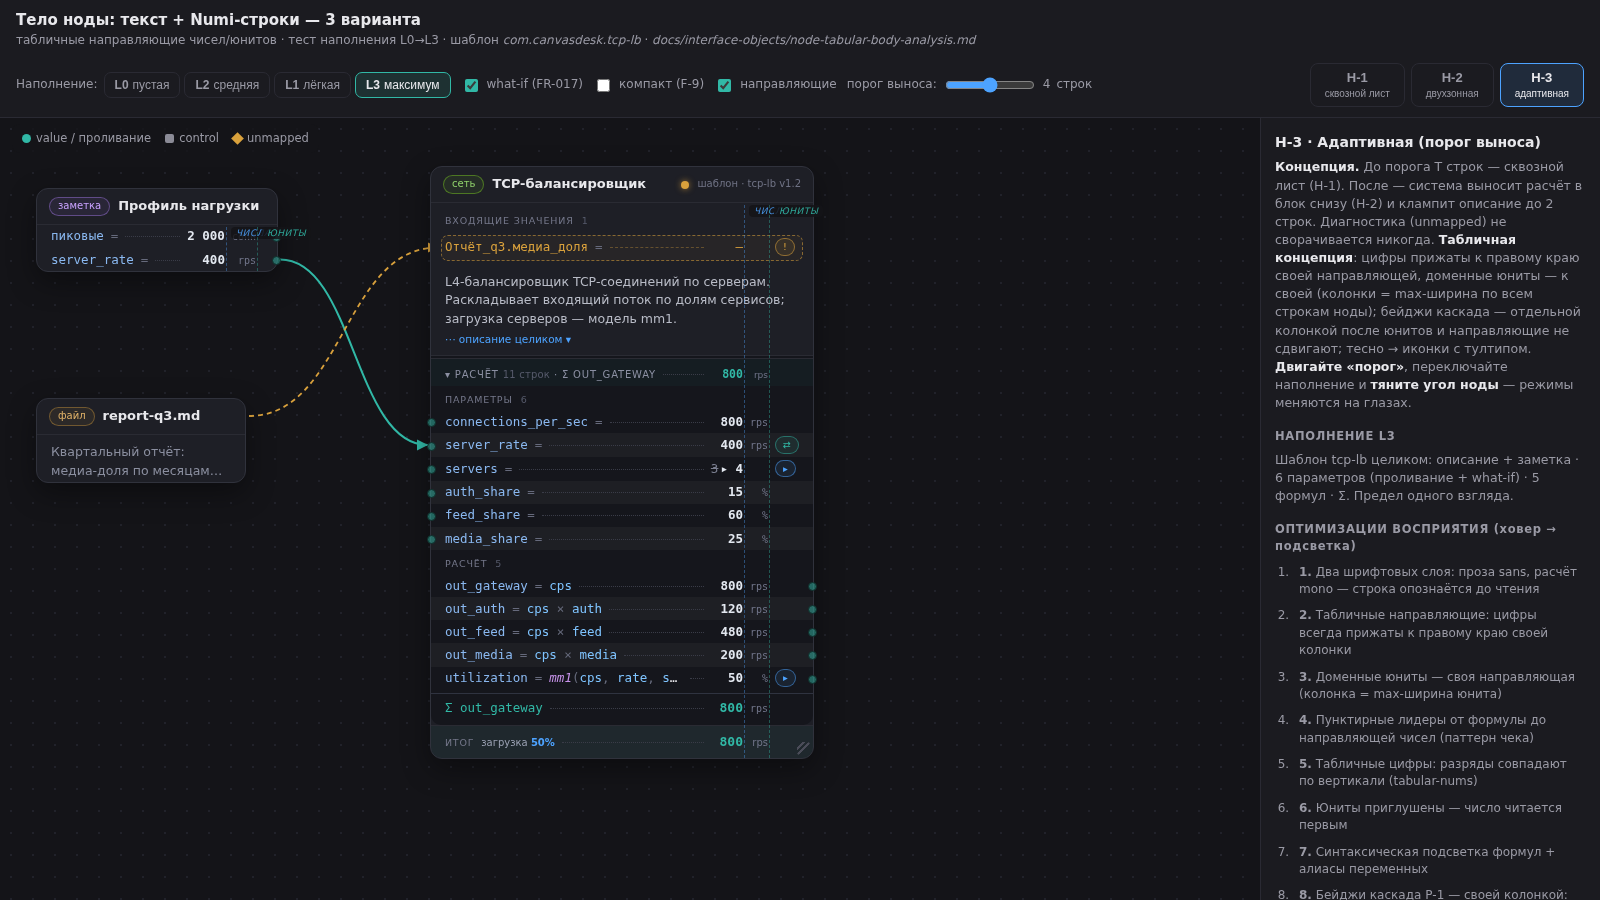
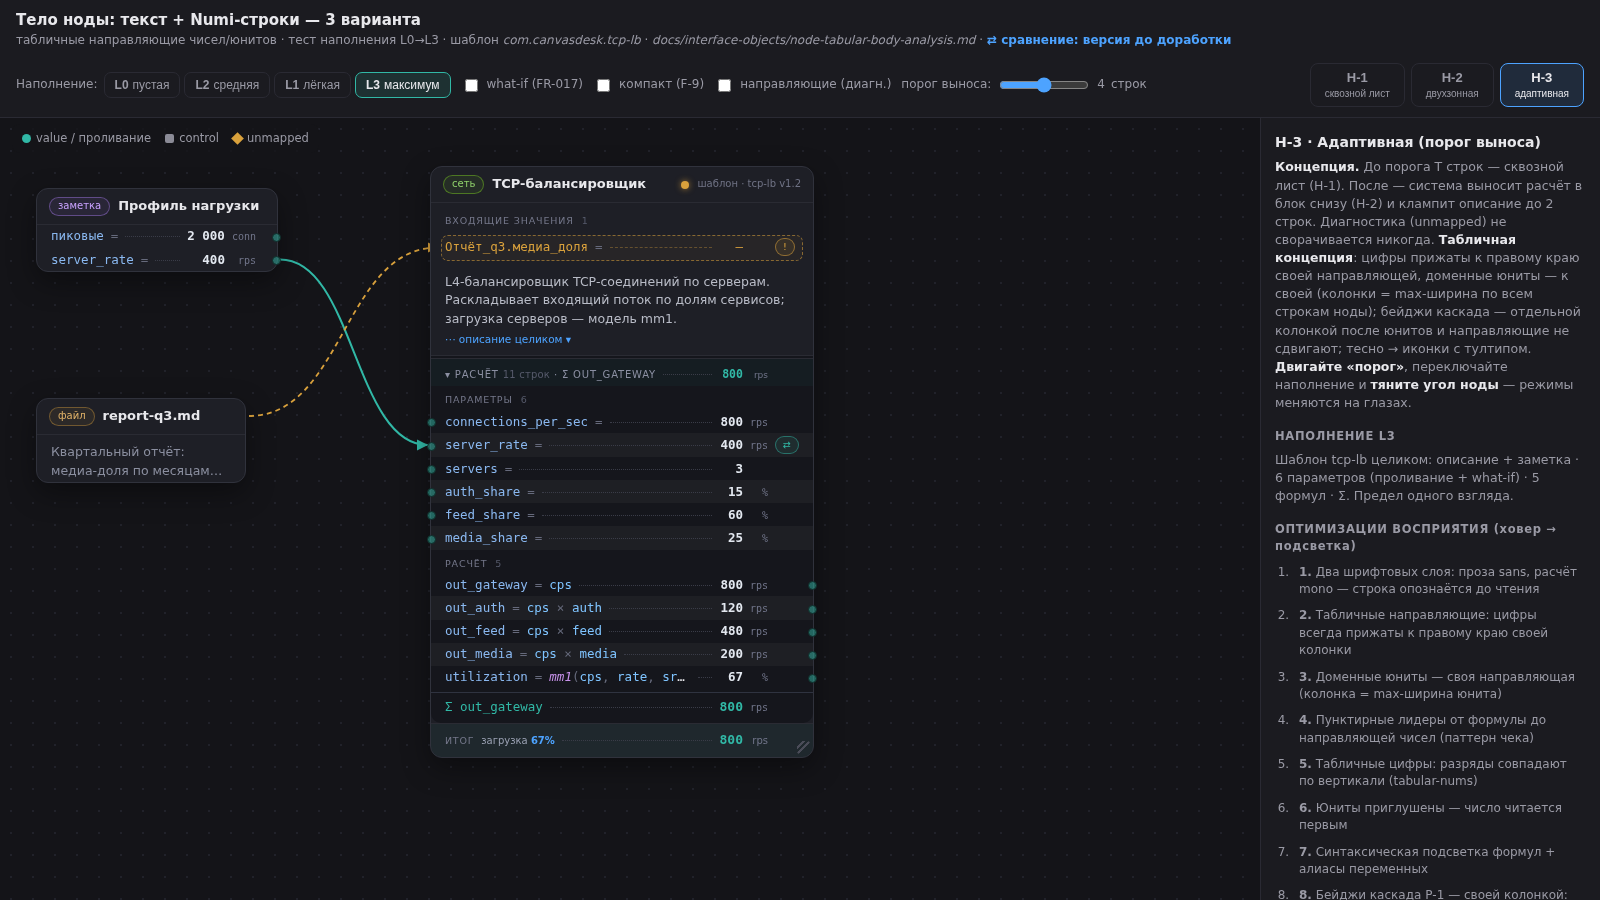
docs(prototypes): направляющие на ноде невидимы (решение владельца) — тумблер «направляющие (диагн.)» выкл. по умолчанию, Q9 закрыт (DebugOverlay), скриншоты пересняты без оверлея

diff --git a/docs/prototypes/ux-node-body-fill.html b/docs/prototypes/ux-node-body-fill.html
@@ -173,7 +173,7 @@
     </span>
     <label class="ctl"><input type="checkbox" id="whatif"> what-if (FR-017)</label>
     <label class="ctl"><input type="checkbox" id="compact"> компакт (F-9)</label>
-    <label class="ctl"><input type="checkbox" id="guides" checked> направляющие</label>
+    <label class="ctl" title="Диагностический оверлей вёрстки: пунктирные вертикали колонок чисел/юнитов. В финальном виде направляющие на ноде НЕ отображаются — это невидимые направляющие раскладки, как в вёрстке."><input type="checkbox" id="guides"> направляющие (диагн.)</label>
     <label class="ctl" id="thrCtl">порог выноса:
       <input type="range" id="thr" min="2" max="6" step="1" value="4">
       <span id="thrVal">4</span> строк
@@ -230,7 +230,7 @@ const $=s=>document.querySelector(s), $$=s=>document.querySelectorAll(s);
 const stage=$("#stage"), hero=$("#hero"), panel=$("#panel"), hint=$("#hint");
 const eSpill=$("#eSpill"), eUnmap=$("#eUnmap");
 const whatifCk=$("#whatif"), compactCk=$("#compact"), guidesCk=$("#guides"), thrEl=$("#thr"), thrVal=$("#thrVal"), thrCtl=$("#thrCtl");
-const S={v:"H3",fill:"L2",whatif:false,compact:false,guides:true,thr:4,blkOpen:false,descOpen:false,bdgIco:false};
+const S={v:"H3",fill:"L2",whatif:false,compact:false,guides:false,thr:4,blkOpen:false,descOpen:false,bdgIco:false};
 
 // ═══════════ Данные наполнения: одна нода «растёт» от L0 к L3 (шаблон tcp-lb) ═══════════
 const P=(name,val,unit,o={})=>Object.assign({name,val,unit},o);
@@ -504,7 +504,7 @@ function updateHint(){
     parts.push(`строк данных ${lines} · порог ${S.thr} → ${lines<=S.thr?"<b>сквозной лист</b>":"<b>блок снизу</b>"}`);}
   parts.push(`ширина ноды <b>${Math.round(hero.getBoundingClientRect().width)} px</b>`);
   parts.push(S.bdgIco?"бейджи: <b>иконки</b> (тесно — полный текст в тултипе)":"бейджи: <b>текст</b> в своей колонке");
-  parts.push(S.guides?"направляющие видны: <b>числа</b> · <b>юниты</b>":"направляющие скрыты (тумблер в шапке)");
+  parts.push(S.guides?"диагностические направляющие видны: <b>числа</b> · <b>юниты</b>":"направляющие — невидимые (только диагностика, тумблер в шапке)");
   if(S.whatif)parts.push("what-if активен: servers 3▸4, загрузка 67%→50%");
   hint.innerHTML=parts.join(" · ");
 }
